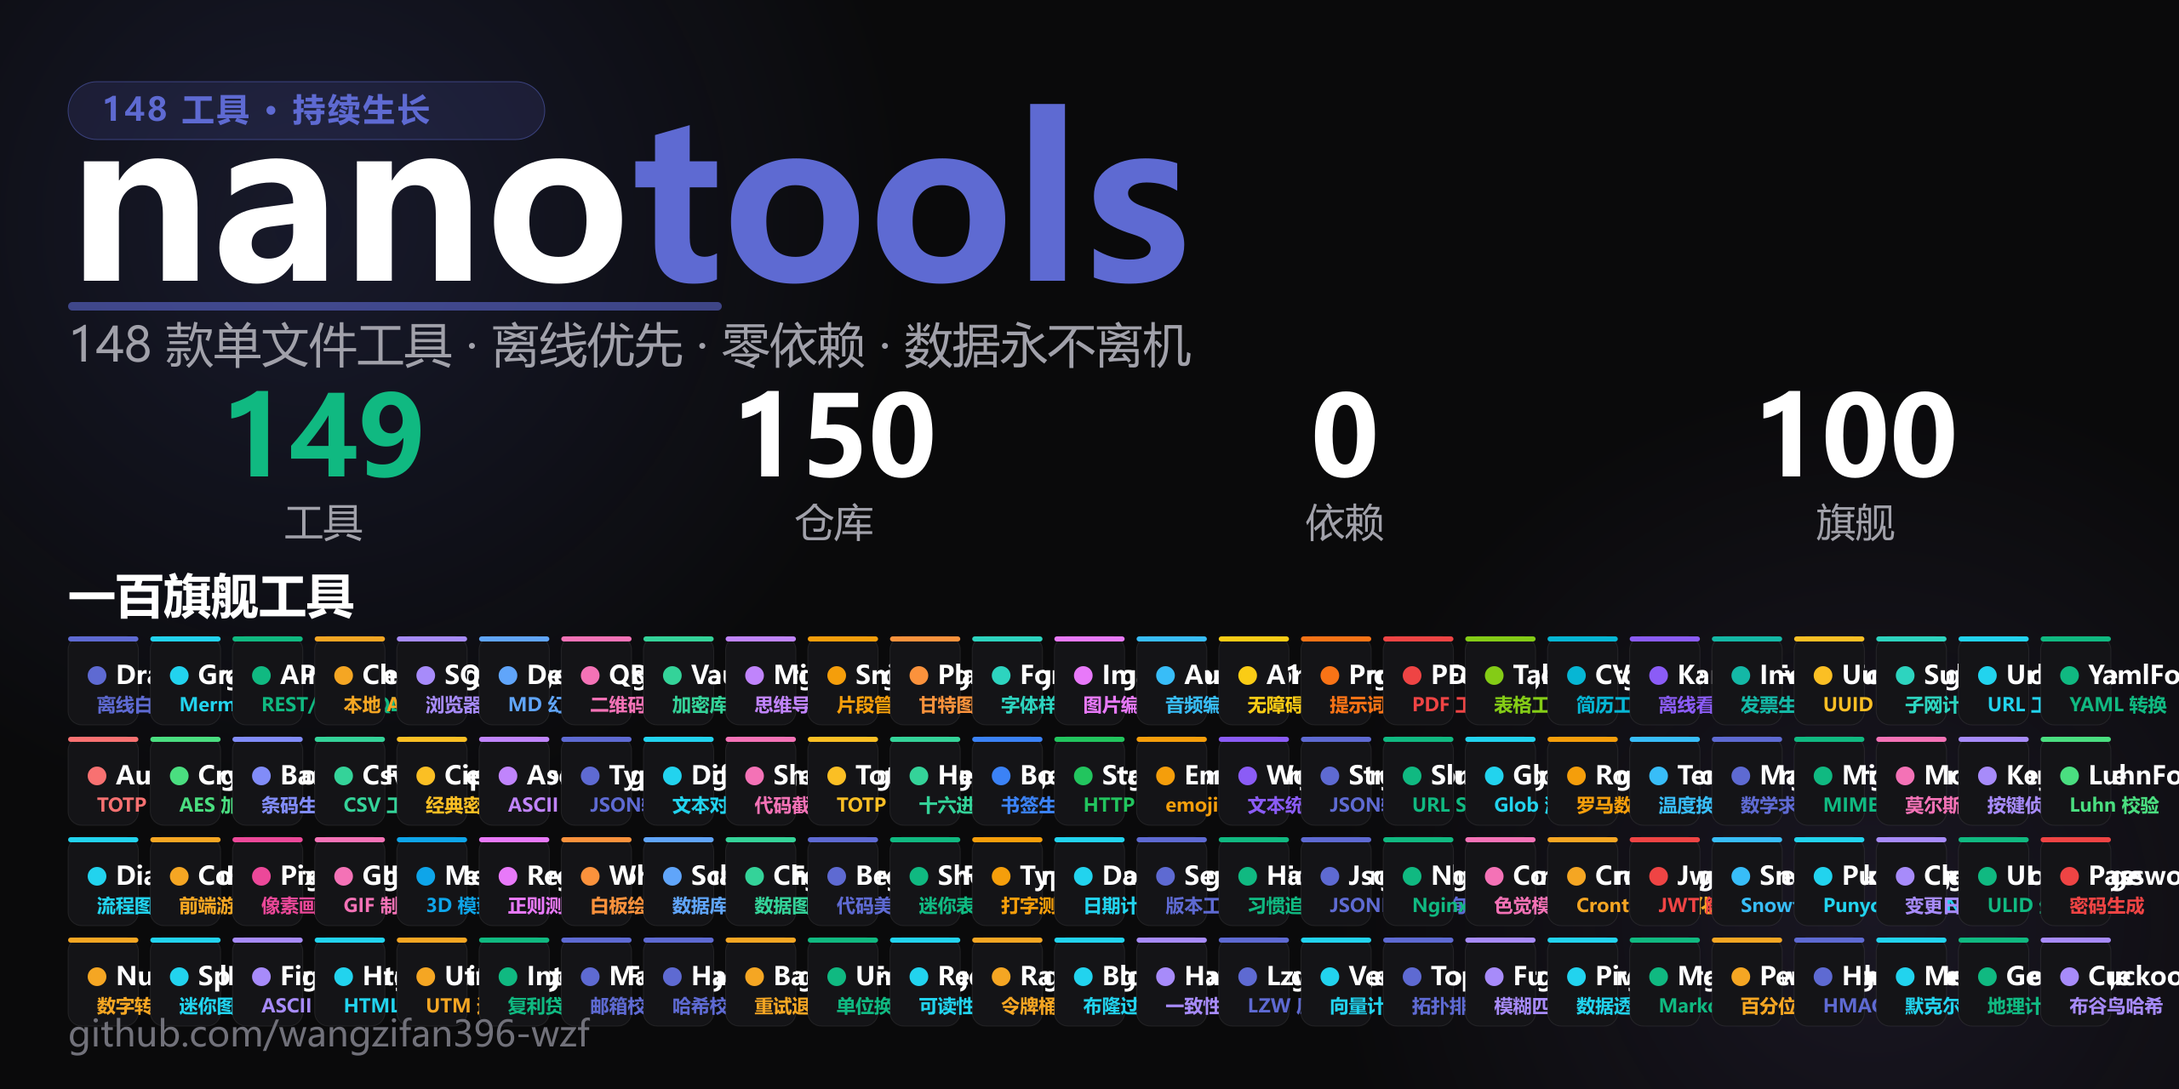
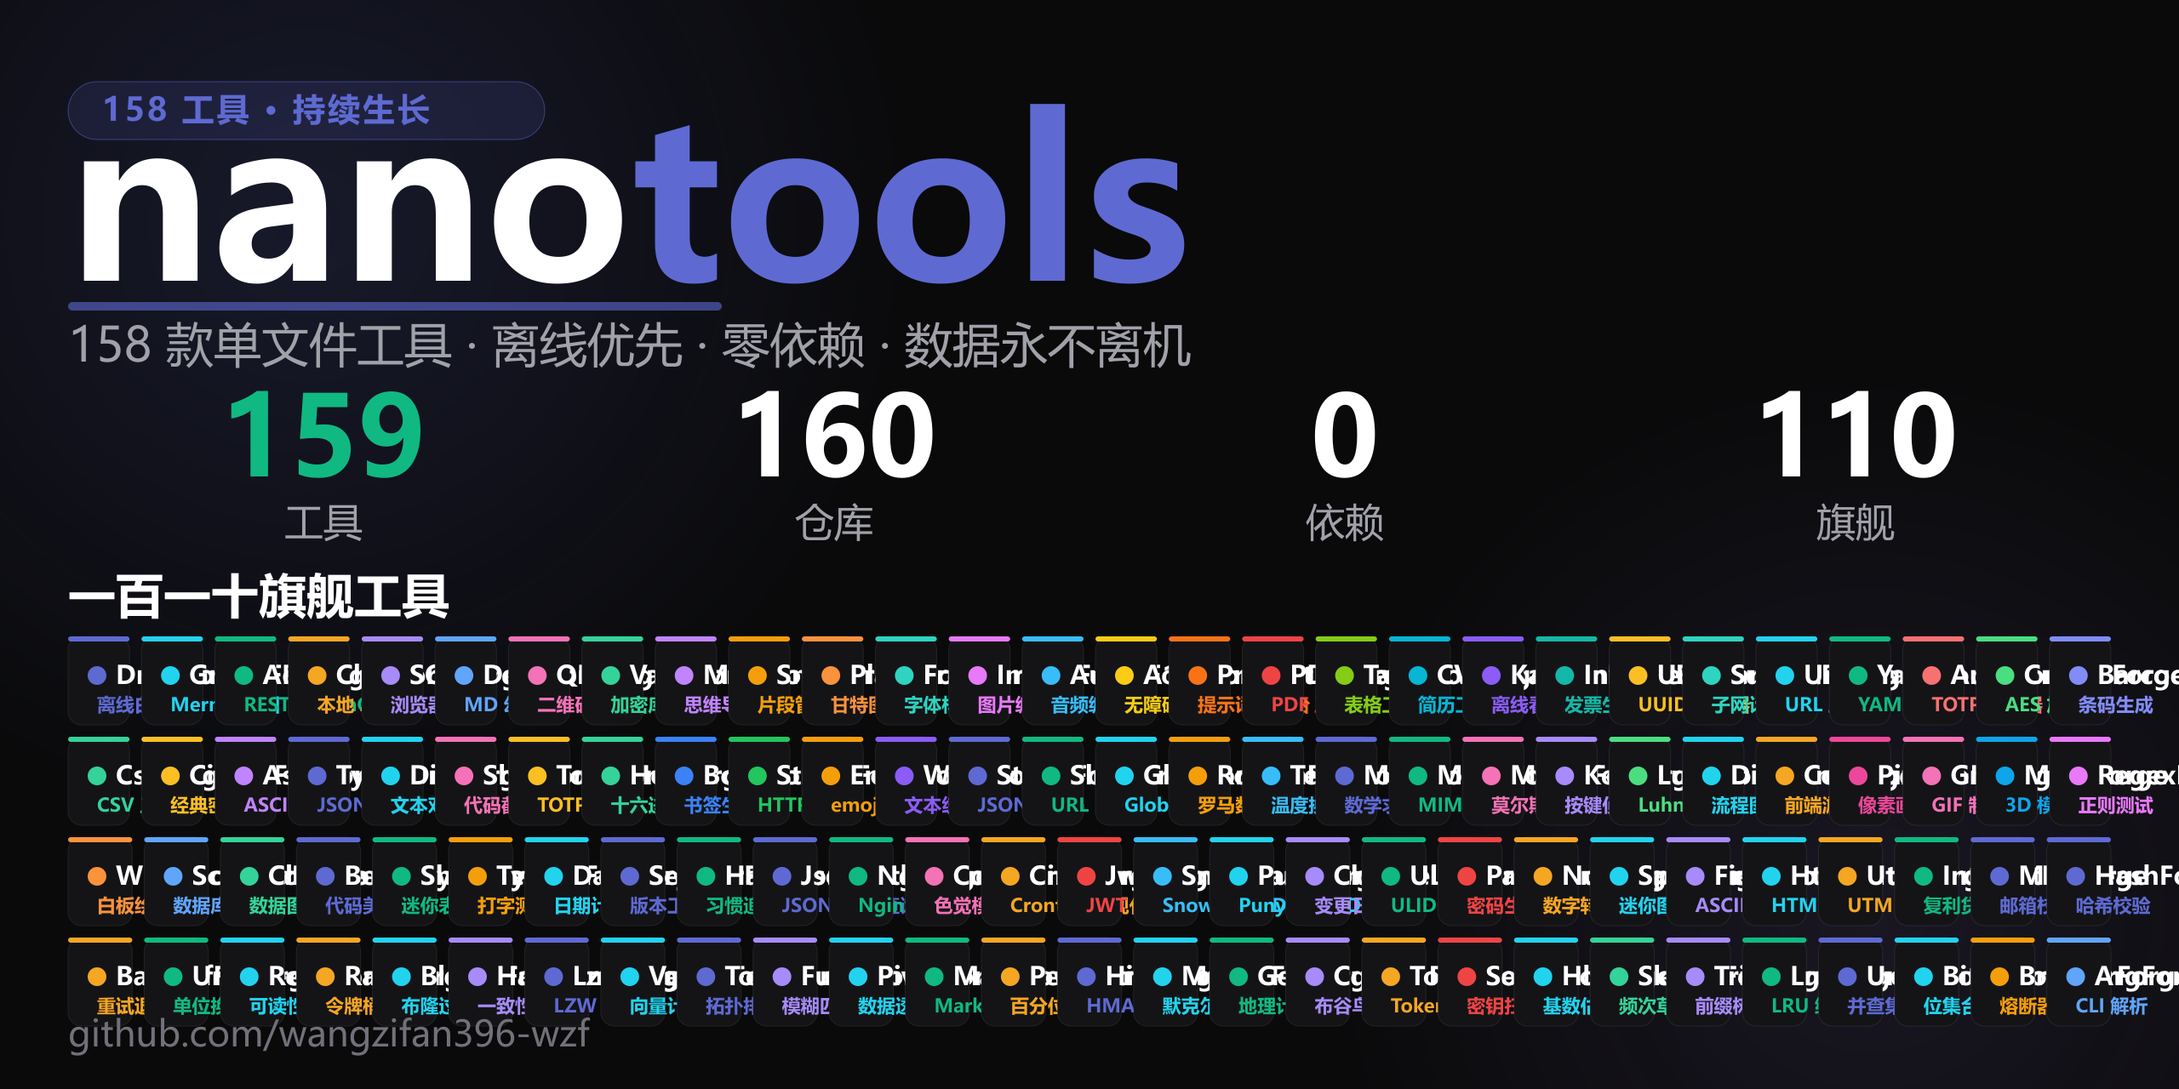
feat: add 10 batch-28 flagships (158 tools / 110 flags) + regen og + hero

diff --git a/index.html b/index.html
@@ -5,9 +5,9 @@
 <meta charset="UTF-8">
 <meta name="viewport" content="width=device-width, initial-scale=1.0">
 <title data-i18n="meta_title">nano-tools · 单文件零依赖工具集</title>
-<meta name="description" data-i18n="meta_desc" content="一个标签页，收纳你全部的开发者工具。148 个单文件、零依赖、本地优先的开源工具，下载即用，数据永不离机。">
+<meta name="description" data-i18n="meta_desc" content="一个标签页，收纳你全部的开发者工具。158 个单文件、零依赖、本地优先的开源工具，下载即用，数据永不离机。">
 <meta property="og:title" data-i18n="og_title" content="nano-tools · 单文件零依赖工具集">
-<meta property="og:description" data-i18n="og_desc" content="148 个单文件、零依赖、本地优先的开发者工具，下载即用，数据永不离机。">
+<meta property="og:description" data-i18n="og_desc" content="158 个单文件、零依赖、本地优先的开发者工具，下载即用，数据永不离机。">
 <meta property="og:image" content="social-preview.png">
 <meta property="og:image:width" content="1280">
 <meta property="og:image:height" content="640">
@@ -278,7 +278,7 @@
     <div class="hero-left">
       <span class="eyebrow"><span class="dot"></span><span data-i18n="hero_eyebrow">开源 · 零依赖 · 单文件</span></span>
       <h1 class="title" data-i18n-html="hero_title">一个标签页，<br>收纳你<span class="hl">全部的开发者工具</span></h1>
-      <p class="subtitle" data-i18n="hero_subtitle">148 个单文件、离线优先的开源工具，覆盖编码、转换、可视化与 AI。下载即用，数据永远留在你的浏览器里。</p>
+      <p class="subtitle" data-i18n="hero_subtitle">158 个单文件、离线优先的开源工具，覆盖编码、转换、可视化与 AI。下载即用，数据永远留在你的浏览器里。</p>
       <div class="hero-cta">
         <a class="btn primary" href="#tools" data-i18n="hero_browse">浏览工具 ↓</a>
         <a class="btn" href="https://github.com/wangzifan396-wzf" target="_blank" rel="noopener" data-i18n="hero_github">在 GitHub 查看</a>
@@ -327,7 +327,7 @@
   <div class="wrap">
     <div class="sec-head reveal">
       <span class="label" data-i18n="tools_label">工具矩阵</span>
-      <h2 class="sec-title" data-i18n="tools_title">148 款精心打磨的开发者工具</h2>
+      <h2 class="sec-title" data-i18n="tools_title">158 款精心打磨的开发者工具</h2>
       <p class="sec-desc" data-i18n="tools_desc">搜索或按分类筛选，点击「在线试用」立即体验，或前往源码仓库查看实现。</p>
     </div>
     <div class="controls reveal">
@@ -385,7 +385,7 @@
 <div class="wrap">
   <div class="cta-band reveal" style="border-color:var(--acc);">
     <span class="pill ok" style="align-self:center;background:rgba(94,106,210,.16);color:#aab2f0;" data-i18n="wb_badge">★ 聚合工作台</span>
-    <h2 data-i18n="wb_title">一个标签页，收纳全部 148 款工具</h2>
+    <h2 data-i18n="wb_title">一个标签页，收纳全部 158 款工具</h2>
     <p data-i18n="wb_desc">nano-workbench：点选即在内嵌窗口运行、标签间即时切换，无需反复打开新页面。数据永不离机。</p>
     <div class="hero-cta">
       <a class="btn primary" href="https://wangzifan396-wzf.github.io/nano-workbench/" target="_blank" rel="noopener" data-i18n="wb_open">打开工作台 ↗</a>
@@ -397,7 +397,7 @@
 <div class="wrap">
   <div class="cta-band reveal">
     <h2 data-i18n="cta_title">把你下一个小工具，交给 nano-tools</h2>
-    <p data-i18n="cta_desc">150 个仓库、148 款工具，全部开源、零依赖、本地优先。</p>
+    <p data-i18n="cta_desc">160 个仓库、158 款工具，全部开源、零依赖、本地优先。</p>
     <div class="hero-cta">
       <a class="btn primary" href="#tools" data-i18n="cta_browse">开始浏览</a>
       <a class="btn" href="https://github.com/wangzifan396-wzf" target="_blank" rel="noopener">★ Star on GitHub</a>
@@ -425,16 +425,16 @@
   // 双语字典（中 / 英）。data-i18n 文本用 textContent；data-i18n-html 保留 <br>/<span> 结构；meta 改 content 属性。
   var I18N = {
     "meta_title":{zh:"nano-tools · 单文件零依赖工具集",en:"nano-tools · single-file, zero-dep tools"},
-    "meta_desc":{zh:"一个标签页，收纳你全部的开发者工具。148 个单文件、零依赖、本地优先的开源工具，下载即用，数据永不离机。",en:"One tab for all your dev tools. 148 single-file, zero-dep, local-first open-source tools. Download and use; data never leaves the browser."},
+    "meta_desc":{zh:"一个标签页，收纳你全部的开发者工具。158 个单文件、零依赖、本地优先的开源工具，下载即用，数据永不离机。",en:"One tab for all your dev tools. 158 single-file, zero-dep, local-first open-source tools. Download and use; data never leaves the browser."},
     "og_title":{zh:"nano-tools · 单文件零依赖工具集",en:"nano-tools · single-file, zero-dep tools"},
-    "og_desc":{zh:"148 个单文件、零依赖、本地优先的开发者工具，下载即用，数据永不离机。",en:"148 single-file, zero-dep, local-first dev tools. Download and use; data never leaves the browser."},
+    "og_desc":{zh:"158 个单文件、零依赖、本地优先的开发者工具，下载即用，数据永不离机。",en:"158 single-file, zero-dep, local-first dev tools. Download and use; data never leaves the browser."},
     "nav_features":{zh:"特性",en:"Features"},
     "nav_tools":{zh:"工具",en:"Tools"},
     "nav_stats":{zh:"数据",en:"Stats"},
     "nav_faq":{zh:"问答",en:"FAQ"},
     "hero_eyebrow":{zh:"开源 · 零依赖 · 单文件",en:"Open-source · Zero-dep · Single-file"},
     "hero_title":{zh:'一个标签页，<br>收纳你<span class="hl">全部的开发者工具</span>',en:'One tab, <br>for <span class="hl">all your dev tools</span>'},
-    "hero_subtitle":{zh:"148 个单文件、离线优先的开源工具，覆盖编码、转换、可视化与 AI。下载即用，数据永远留在你的浏览器里。",en:"148 single-file, offline-first open-source tools spanning encoding, conversion, visualization & AI. Download and use instantly; your data never leaves the browser."},
+    "hero_subtitle":{zh:"158 个单文件、离线优先的开源工具，覆盖编码、转换、可视化与 AI。下载即用，数据永远留在你的浏览器里。",en:"158 single-file, offline-first open-source tools spanning encoding, conversion, visualization & AI. Download and use instantly; your data never leaves the browser."},
     "hero_browse":{zh:"浏览工具 ↓",en:"Browse tools ↓"},
     "hero_github":{zh:"在 GitHub 查看",en:"View on GitHub"},
     "meta_repos":{zh:"开源仓库",en:"Open-source repos"},
@@ -450,16 +450,16 @@
     "step3_t":{zh:"单文件可携",en:"Portable single-file"},
     "step3_d":{zh:"每个工具只有一个 HTML 文件，零依赖、可随便复制分享，U 盘里也能跑。",en:"Each tool is one HTML file — zero dependencies, copy & share freely, runs from a USB stick."},
     "tools_label":{zh:"工具矩阵",en:"Tool matrix"},
-    "tools_title":{zh:"148 款精心打磨的开发者工具",en:"148 Hand-crafted Dev Tools"},
+    "tools_title":{zh:"158 款精心打磨的开发者工具",en:"158 Hand-crafted Dev Tools"},
     "tools_desc":{zh:"搜索或按分类筛选，点击「在线试用」立即体验，或前往源码仓库查看实现。",en:"Search or filter by category, hit “Live Demo” to try instantly, or visit the source repo."},
     "search_ph":{zh:"搜索工具… 试试 regex / json / 颜色 / 压缩 / 图表",en:"Search tools… try regex / json / color / compress / chart"},
     "btn_demo":{zh:"在线试用",en:"Live Demo"},
     "btn_src":{zh:"源码",en:"Source"},
     "no_result":{zh:"没有匹配的工具，换个关键词试试 🔍",en:"No matching tools — try another keyword 🔍"},
     "cta_title":{zh:"把你下一个小工具，交给 nano-tools",en:"Your next tiny tool, from nano-tools"},
-    "cta_desc":{zh:"150 个仓库、148 款工具，全部开源、零依赖、本地优先。",en:"150 repos, 148 tools. All open-source, zero-dep, local-first."},
+    "cta_desc":{zh:"160 个仓库、158 款工具，全部开源、零依赖、本地优先。",en:"160 repos, 158 tools. All open-source, zero-dep, local-first."},
     "wb_badge":{zh:"★ 聚合工作台",en:"★ Unified Workbench"},
-    "wb_title":{zh:"一个标签页，收纳全部 148 款工具",en:"All 148 tools in one tab"},
+    "wb_title":{zh:"一个标签页，收纳全部 158 款工具",en:"All 158 tools in one tab"},
     "wb_desc":{zh:"nano-workbench：点选即在内嵌窗口运行、标签间即时切换，无需反复打开新页面。数据永不离机。",en:"nano-workbench: pick a tool and run it in an embedded pane, switch tabs instantly — no more reopening pages. Data never leaves your machine."},
     "wb_open":{zh:"打开工作台 ↗",en:"Open Workbench ↗"},
     "wb_src":{zh:"查看源码",en:"View Source"},
@@ -647,6 +647,36 @@
     {id:"CuckooForge", name:"CuckooForge", icon:"cuckoo", cat:"数据结构", badge:"旗舰",
      desc:"布谷鸟过滤器：可删除的概率型成员判定，指纹 + 双桶 + 踢出重放。",
      tags:["cuckoo-filter","probabilistic","dedupe","membership","delete"]},
+    {id:"TokenForge", name:"TokenForge", icon:"token", cat:"实用计算", badge:"旗舰",
+     desc:"LLM Token 估算与成本计算器：确定性子词分词 + 多模型单价表。",
+     tags:["token","llm-cost","pricing","openai","claude","estimator"]},
+    {id:"SecretForge", name:"SecretForge", icon:"secret", cat:"编码加密", badge:"旗舰",
+     desc:"密钥/凭据扫描器：正则模式 + 香农熵检测，定位代码中的高危泄露。",
+     tags:["secret","credential","scanner","entropy","security","leak"]},
+    {id:"HllForge", name:"HllForge", icon:"hll", cat:"数据结构", badge:"旗舰",
+     desc:"HyperLogLog 基数估计：用极少内存估算大规模去重计数（至多高估）。",
+     tags:["hyperloglog","cardinality","distinct","sketch","bigdata"]},
+    {id:"SketchForge", name:"SketchForge", icon:"sketch", cat:"数据结构", badge:"旗舰",
+     desc:"Count-Min Sketch 频次草图：流式频率估计，至多高估。",
+     tags:["count-min-sketch","frequency","sketch","streaming","analytics"]},
+    {id:"TrieForge", name:"TrieForge", icon:"trie", cat:"数据结构", badge:"旗舰",
+     desc:"前缀树 Trie：自动补全、词表检索、前缀计数，零依赖纯函数。",
+     tags:["trie","prefix-tree","autocomplete","search","dictionary"]},
+    {id:"LruForge", name:"LruForge", icon:"lru", cat:"数据结构", badge:"旗舰",
+     desc:"LRU 缓存：容量受限的 Least-Recently-Used 淘汰，Map 实现 O(1)。",
+     tags:["lru","cache","eviction","ttl","memory"]},
+    {id:"UnionForge", name:"UnionForge", icon:"union", cat:"数据结构", badge:"旗舰",
+     desc:"并查集 Disjoint Set：连通分量、动态连通性、Kruskal 最小生成树。",
+     tags:["union-find","disjoint-set","connectivity","graph","mst"]},
+    {id:"BitsetForge", name:"BitsetForge", icon:"bitset", cat:"数据结构", badge:"旗舰",
+     desc:"位集合 Bitset：紧凑位运算、集合交并差、成员判定与位计数。",
+     tags:["bitset","bitmap","bitwise","set","membership"]},
+    {id:"BreakerForge", name:"BreakerForge", icon:"breaker", cat:"开发辅助", badge:"旗舰",
+     desc:"熔断器 Circuit Breaker：closed/open/half-open 状态机，保护下游服务。",
+     tags:["circuit-breaker","resilience","fault-tolerance","state-machine"]},
+    {id:"ArgForge", name:"ArgForge", icon:"arg", cat:"开发辅助", badge:"旗舰",
+     desc:"命令行参数解析器：flags/options/positionals，类型推断与默认值。",
+     tags:["cli","argv","parser","flags","args"]},
     {id:"BaseForge", name:"BaseForge", icon:"base", cat:"实用计算", badge:"新",
      desc:"进制转换增强版：大整数（BigInt）、小数部分、自定义字符表（base62/58）、2–36 进制。",
      tags:["base","radix","bigint"]},
@@ -1085,6 +1115,16 @@
     HmacForge:{desc:"HMAC-SHA256 signer verified against RFC 4231 vectors for API signing and webhook validation.", cat:"Encoding"},
     MerkleForge:{desc:"Merkle tree builder & prover: SHA-256 tree, inclusion proofs and verification.", cat:"DataStruct"},
     GeoForge:{desc:"Geo distance calculator: haversine great-circle, bearing, destination point and bounding box.", cat:"Utility"},
+    TokenForge:{desc:"LLM token estimator & cost calculator: deterministic subword tokenization plus multi-model pricing.", cat:"Utility"},
+    SecretForge:{desc:"Secret & credential scanner: regex patterns plus Shannon entropy to flag high-risk leaks in code.", cat:"Encoding"},
+    HllForge:{desc:"HyperLogLog cardinality estimator: approximate distinct counts with tiny memory (over-estimate only).", cat:"DataStruct"},
+    SketchForge:{desc:"Count-Min Sketch frequency sketch: streaming frequency estimation, over-estimate only.", cat:"DataStruct"},
+    TrieForge:{desc:"Trie prefix tree: autocomplete, vocabulary lookup, prefix counts, pure zero-dep functions.", cat:"DataStruct"},
+    LruForge:{desc:"LRU cache: capacity-bounded least-recently-used eviction via Map, O(1) ops.", cat:"DataStruct"},
+    UnionForge:{desc:"Union-Find disjoint set: connected components, dynamic connectivity, Kruskal MST.", cat:"DataStruct"},
+    BitsetForge:{desc:"Bitset: compact bit operations, set intersection/union/difference, membership & popcount.", cat:"DataStruct"},
+    BreakerForge:{desc:"Circuit breaker state machine: closed/open/half-open to protect downstream services.", cat:"Dev"},
+    ArgForge:{desc:"CLI argument parser: flags/options/positionals with type inference and defaults.", cat:"Dev"},
     CuckooForge:{desc:"Cuckoo filter: deletable probabilistic membership with fingerprints, dual buckets and kick relocation.", cat:"DataStruct"}
   };
   // 中文分类 -> 英文分类 映射
@@ -1239,6 +1279,16 @@
     hmac:'<rect x="4" y="10" width="16" height="10" rx="2"/><path d="M8 10V7a4 4 0 018 0v3"/><path d="M9 15h6"/>',
     merkle:'<circle cx="12" cy="4" r="2"/><circle cx="6" cy="12" r="2"/><circle cx="18" cy="12" r="2"/><circle cx="6" cy="20" r="2"/><path d="M10.8 5.5L7 10M13.2 5.5L17 10M6 14v4"/>',
     geo:'<circle cx="12" cy="12" r="9"/><path d="M3 12h18M12 3c3 3 3 15 0 18M12 3c-3 3-3 15 0 18"/>',
+    token:'<circle cx="12" cy="12" r="8"/><path d="M9 9h6M9 15h6M10 8l4 8M14 8l-4 8"/>',
+    secret:'<circle cx="8" cy="8" r="4"/><path d="M11 11l8 8M16 16l2-2M14 14l2-2"/>',
+    hll:'<path d="M12 3C12 3 5 11 5 15a7 7 0 0 0 14 0c0-4-7-12-7-12z"/>',
+    sketch:'<path d="M5 19V9M10 19V5M15 19v-7M20 19v-3"/>',
+    trie:'<circle cx="12" cy="5" r="2"/><circle cx="6" cy="14" r="2"/><circle cx="18" cy="14" r="2"/><path d="M12 7v5M10.5 12.5l-3.5 1M13.5 12.5l3.5 1"/>',
+    lru:'<circle cx="12" cy="12" r="8"/><path d="M12 8v4l3 2"/>',
+    union:'<circle cx="9" cy="12" r="5"/><circle cx="15" cy="12" r="5"/>',
+    bitset:'<rect x="4" y="4" width="6" height="6" rx="1"/><rect x="14" y="4" width="6" height="6" rx="1"/><rect x="4" y="14" width="6" height="6" rx="1"/><rect x="14" y="14" width="6" height="6" rx="1"/>',
+    breaker:'<rect x="3" y="8" width="18" height="8" rx="4"/><circle cx="16" cy="12" r="3"/>',
+    arg:'<rect x="3" y="4" width="18" height="16" rx="2"/><path d="M7 9l3 3-3 3M13 15h4"/>',
     cuckoo:'<rect x="3" y="4" width="8" height="7" rx="1"/><rect x="13" y="13" width="8" height="7" rx="1"/><path d="M11 7.5h4v6"/><path d="M9 11v4h-4"/>',
   };
   function iconSvg(k){ return '<svg viewBox="0 0 24 24" fill="none" stroke="currentColor" stroke-width="1.8" stroke-linecap="round" stroke-linejoin="round">'+(ICONS[k]||"")+'</svg>'; }
@@ -1249,7 +1299,7 @@
   var $ = function(s,el){return (el||document).querySelector(s);};
   var state = {q:"", cat:"全部", flag:false, fav:false};
   var LANG = (function(){ try{return localStorage.getItem("nano-lang")||"zh";}catch(e){return "zh";} })();
-  var FLAG_IDS = {"DrawForge":1,"GraphForge":1,"APIForge":1,"ChatForge":1,"SQLForge":1,"DeckForge":1,"QRForge":1,"VaultForge":1,"MindForge":1,"SnipForge":1,"PlanForge":1,"FontForge":1,"ImageForge":1,"AudioForge":1,"A11yForge":1,"PromptForge":1,"PDFForge":1,"TableForge":1,"CVForge":1,"KanbanForge":1,"InvoiceForge":1,"UuidForge":1,"SubnetForge":1,"UrlForge":1,"YamlForge":1,"AuthForge":1,"CryptoForge":1,"BarcodeForge":1,"CsvForge":1,"CipherForge":1,"AsciiForge":1,"TypeForge":1,"DiffForge":1,"ShotForge":1,"TotpForge":1,"HexForge":1,"BookForge":1,"StatusForge":1,"EmojiForge":1,"WordForge":1,"StructForge":1,"SlugForge":1,"GlobForge":1,"RomanForge":1,"TempForge":1,"MathForge":1,"MimeForge":1,"MorseForge":1,"KeyForge":1,"LuhnForge":1,"DiagramForge":1,"CodeForge":1,"PixelForge":1,"GIFForge":1,"MeshForge":1,"RegexForge":1,"WhiteboardForge":1,"SchemaForge":1,"ChartForge":1,"BeautifyForge":1,"SheetForge":1,"TypingForge":1,"DateForge":1,"SemverForge":1,"HabitForge":1,"JsonPathForge":1,"NginxForge":1,"ColorBlindForge":1,"CronForge":1,"JwtForge":1,"SnowflakeForge":1,"PunyForge":1,"ChangelogForge":1,"ULIDForge":1,"PasswordForge":1,"NumeralForge":1,"SparkForge":1,"FigletForge":1,"HtmlEntityForge":1,"UtmForge":1,"InterestForge":1,"MailForge":1,"HashForge":1,"BackoffForge":1,"UnitForge":1,"ReadForge":1,"RateForge":1,"BloomForge":1,"HashRingForge":1,"LzwForge":1,"VectorForge":1,"TopoForge":1,"FuzzyForge":1,"PivotForge":1,"MarkdownForge":1,"PercentileForge":1,"HmacForge":1,"MerkleForge":1,"GeoForge":1,"CuckooForge":1};
+  var FLAG_IDS = {"DrawForge":1,"GraphForge":1,"APIForge":1,"ChatForge":1,"SQLForge":1,"DeckForge":1,"QRForge":1,"VaultForge":1,"MindForge":1,"SnipForge":1,"PlanForge":1,"FontForge":1,"ImageForge":1,"AudioForge":1,"A11yForge":1,"PromptForge":1,"PDFForge":1,"TableForge":1,"CVForge":1,"KanbanForge":1,"InvoiceForge":1,"UuidForge":1,"SubnetForge":1,"UrlForge":1,"YamlForge":1,"AuthForge":1,"CryptoForge":1,"BarcodeForge":1,"CsvForge":1,"CipherForge":1,"AsciiForge":1,"TypeForge":1,"DiffForge":1,"ShotForge":1,"TotpForge":1,"HexForge":1,"BookForge":1,"StatusForge":1,"EmojiForge":1,"WordForge":1,"StructForge":1,"SlugForge":1,"GlobForge":1,"RomanForge":1,"TempForge":1,"MathForge":1,"MimeForge":1,"MorseForge":1,"KeyForge":1,"LuhnForge":1,"DiagramForge":1,"CodeForge":1,"PixelForge":1,"GIFForge":1,"MeshForge":1,"RegexForge":1,"WhiteboardForge":1,"SchemaForge":1,"ChartForge":1,"BeautifyForge":1,"SheetForge":1,"TypingForge":1,"DateForge":1,"SemverForge":1,"HabitForge":1,"JsonPathForge":1,"NginxForge":1,"ColorBlindForge":1,"CronForge":1,"JwtForge":1,"SnowflakeForge":1,"PunyForge":1,"ChangelogForge":1,"ULIDForge":1,"PasswordForge":1,"NumeralForge":1,"SparkForge":1,"FigletForge":1,"HtmlEntityForge":1,"UtmForge":1,"InterestForge":1,"MailForge":1,"HashForge":1,"BackoffForge":1,"UnitForge":1,"ReadForge":1,"RateForge":1,"BloomForge":1,"HashRingForge":1,"LzwForge":1,"VectorForge":1,"TopoForge":1,"FuzzyForge":1,"PivotForge":1,"MarkdownForge":1,"PercentileForge":1,"HmacForge":1,"MerkleForge":1,"GeoForge":1,"CuckooForge":1,"TokenForge":1,"SecretForge":1,"HllForge":1,"SketchForge":1,"TrieForge":1,"LruForge":1,"UnionForge":1,"BitsetForge":1,"BreakerForge":1,"ArgForge":1};
   var FAV_KEY = "nano-favs";
   function getFavs(){ try{return JSON.parse(localStorage.getItem(FAV_KEY)||"[]");}catch(e){return [];} }
   function setFav(id,on){ var s=getFavs(); var i=s.indexOf(id); if(on&&i<0)s.push(id); if(!on&&i>=0)s.splice(i,1); try{localStorage.setItem(FAV_KEY,JSON.stringify(s));}catch(e){} }
